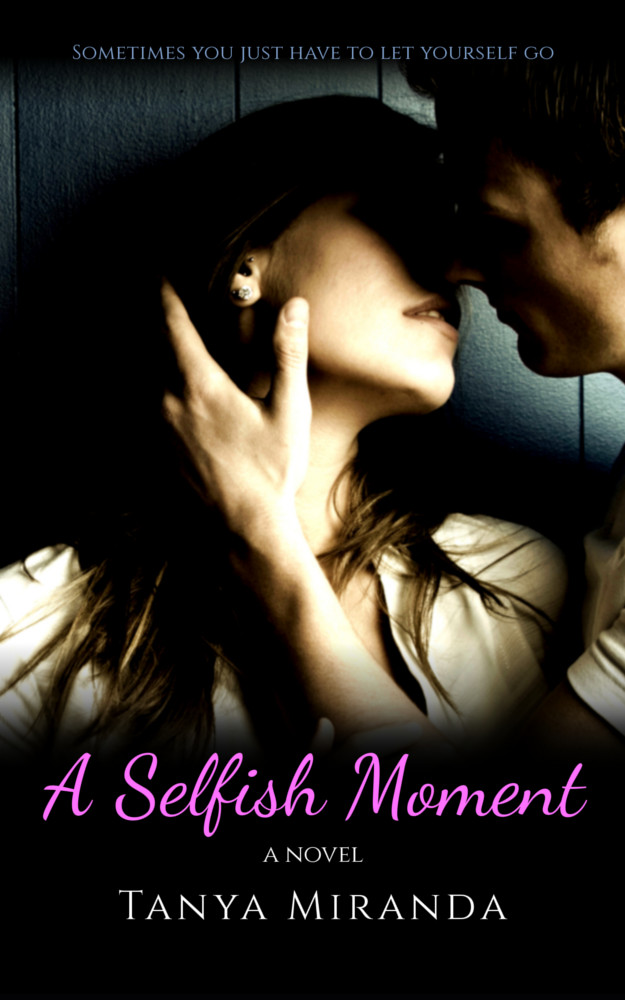
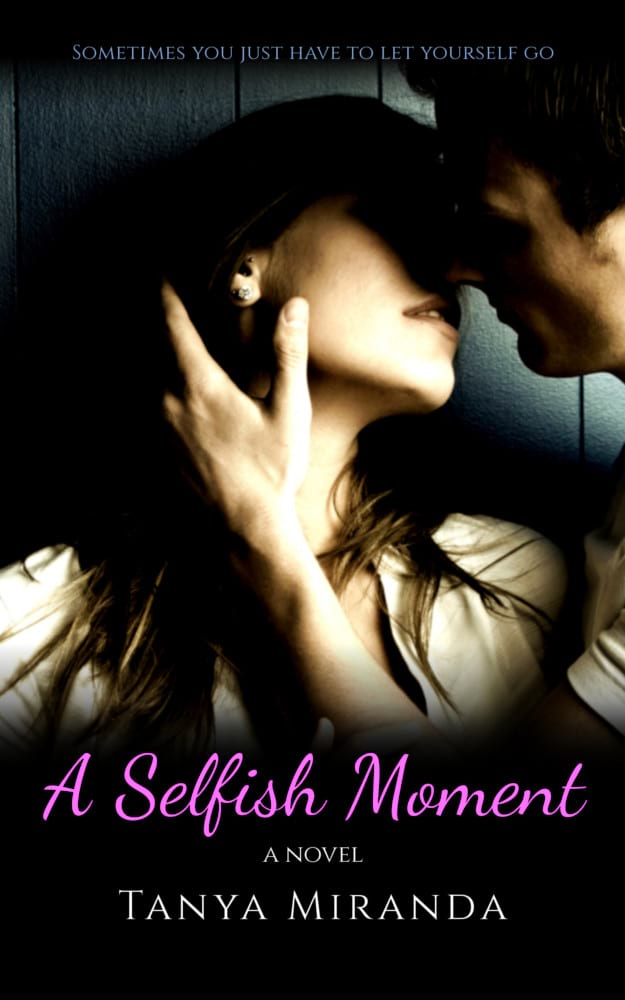
Compressed images for faster download. Added ALT attributes to images. Changed buttons to have better contrast.

diff --git a/content/scripts/books.js b/content/scripts/books.js
@@ -241,7 +241,7 @@ function loadBookThumbnails(small) {
     BOOK_META_DATA.forEach(book => {
         if (!book.hideFromBookList) 
             html += "<div class='book-thumbnail" + (small ? " smallest-thumbnail" : "") + "'>" + 
-                    "<a href='" + bookdetailsurl + "?bookId=" + book.id + "' ><img src='" + contentlocation + book.image + "' /></a>" + 
+                    "<a href='" + bookdetailsurl + "?bookId=" + book.id + "' ><img src='" + contentlocation + book.image + "' alt='" + book.title + "'/></a>" + 
                 "</div>"
     });
 

diff --git a/blogger-content/newsletter-sign-up.html b/blogger-content/newsletter-sign-up.html
@@ -142,7 +142,7 @@
         box-shadow: 0 8px 20px rgb(0 0 0 / 40%);
         border-radius: 10px !important;
         border: 1px solid #000000 !important;
-        background-color: #278d27;
+        background-color: darkgreen;
         color: white;
         text-align: center;
     }

diff --git a/content/scripts/cookie.notice.js b/content/scripts/cookie.notice.js
@@ -30,7 +30,7 @@
         'buttonText': 'Ok',
 
         'expiresIn': 30,
-        'buttonBgColor': '#d35400',
+        'buttonBgColor': 'green',
         'buttonTextColor': '#fff',
         'noticeBgColor': '#000',
         'noticeTextColor': '#fff',

diff --git a/content/styles/books.css b/content/styles/books.css
@@ -101,7 +101,7 @@ BOOK PAGES
     border: 1px solid #000000;
     padding: 5px 10px;
     margin: 30px 0px;
-    background-color: #278d27;
+    background-color: darkgreen;
     color: white;
     text-align: center;
 }
